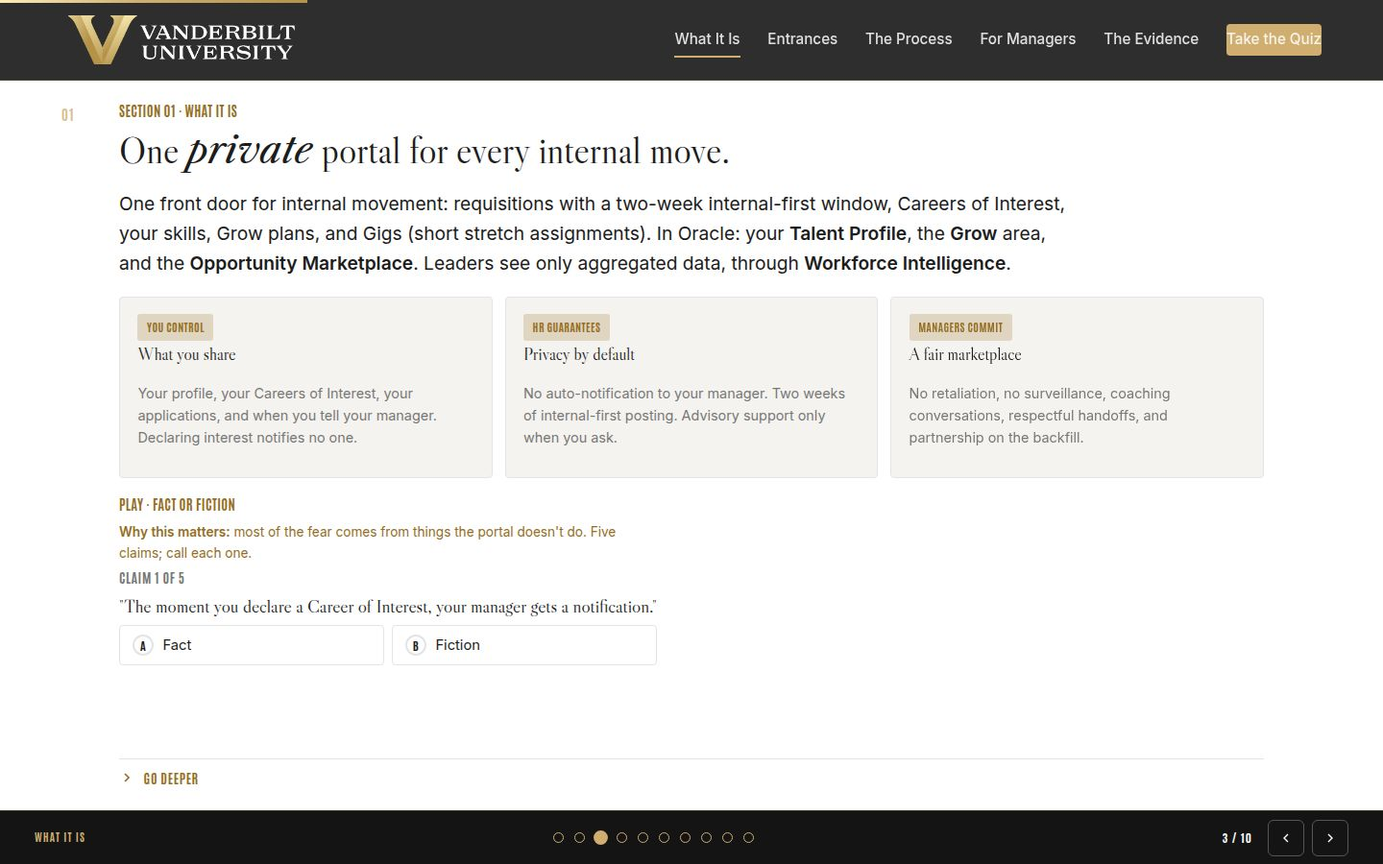
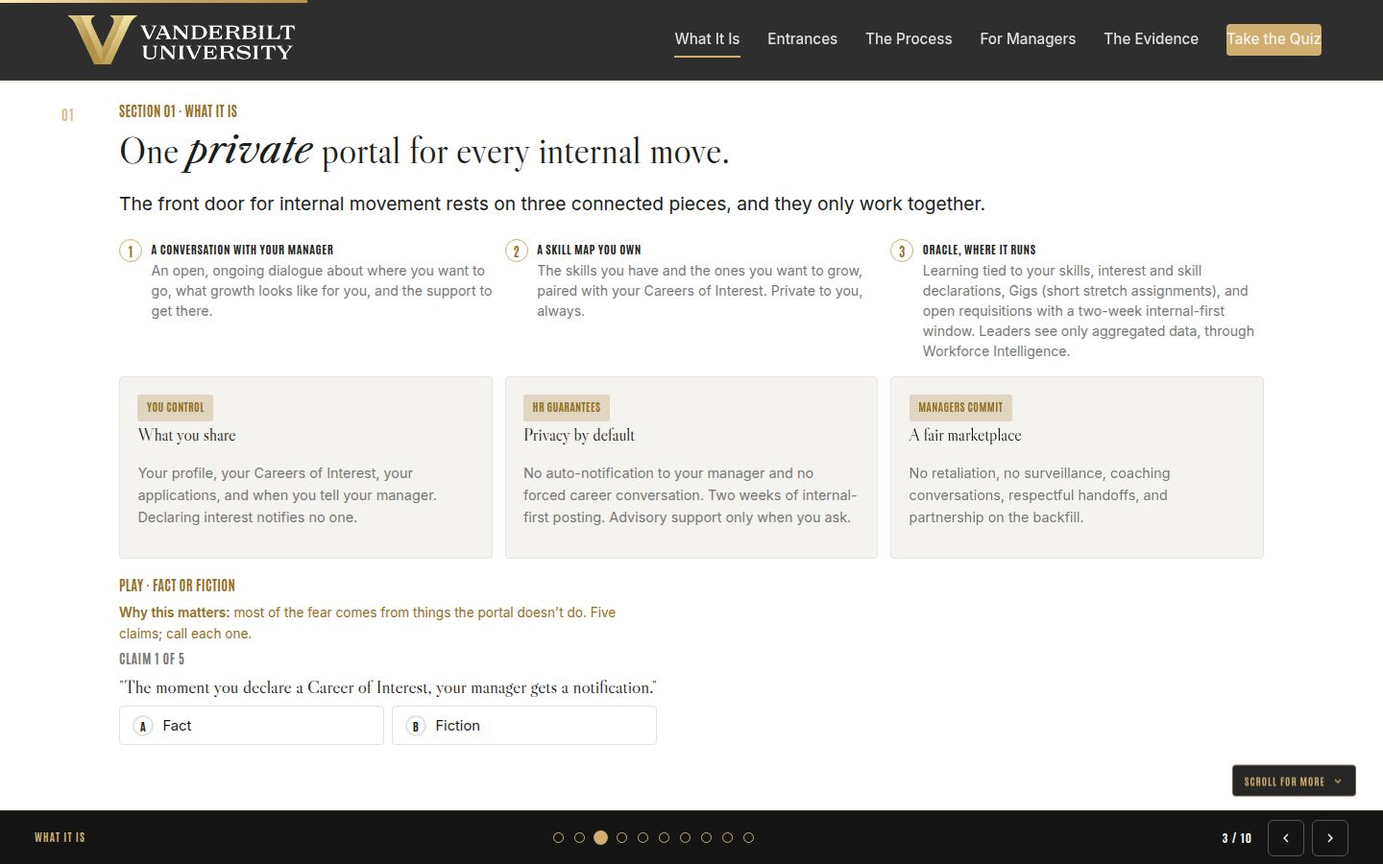
Align course to the canonical program description
Section 01 now opens with the three connected pieces (manager
conversation, a private skill map, Oracle as the operating layer).
Hero names upward or lateral growth within or across units and frames
mobility as a normal part of a Vanderbilt career. Privacy guarantee
adds no forced career conversations; Track 1 gains the Oracle Learning
step; Track 2 names recruiters. Runbook and CLAUDE.md facts synced.

Claude-Session: https://claude.ai/code/session_013tDBVkmLuRfSx6Efv12VME

Changed region(s): [[0.0625, 0.2178, 0.9062, 0.9333], [0.875, 0.8711, 1.0, 0.9333]]

diff --git a/facilitator/index.html b/facilitator/index.html
@@ -28,6 +28,12 @@
     padding: .3rem .65rem; border-radius: 999px; border: 1px solid rgba(207,174,112,.55);
     color: rgba(255,255,255,.85); }
   .skillpill--core { background: var(--vu-gold-flat); border-color: var(--vu-gold-flat); color: var(--vu-black); }
+  /* the three connected pieces (section 01) */
+  .pieces { list-style: none; margin: 1.1rem 0 0; padding: 0; counter-reset: piece; display: grid; gap: .7rem; }
+  @media (min-width: 900px) { .pieces { grid-template-columns: repeat(3, 1fr); gap: .8rem; } }
+  .pieces li { counter-increment: piece; position: relative; padding: .15rem 0 0 2.1rem; font-size: .88rem; line-height: 1.5; color: var(--vu-gray-dark); }
+  .pieces li::before { content: counter(piece); position: absolute; left: 0; top: .1rem; width: 1.5rem; height: 1.5rem; border-radius: 50%; border: 1px solid var(--vu-gold-flat); color: var(--vu-oak); font-family: var(--font-condensed); font-weight: 700; font-size: .85rem; display: grid; place-items: center; }
+  .pieces li b { display: block; font-family: var(--font-condensed); font-weight: 700; text-transform: uppercase; letter-spacing: .05em; font-size: .78rem; color: var(--vu-black); margin-bottom: .15rem; }
   /* entrance doors (expanding) */
   .doors { margin-top: 1.5rem; display: grid; gap: .6rem; }
   @media (min-width: 900px) { .doors { grid-template-columns: 1fr 1fr; gap: .6rem .9rem; align-items: start; } }
@@ -269,7 +275,7 @@ body.fac-hide .facshow { display: inline-flex; }
     <div class="wrap">
       <p class="eyebrow" data-reveal>The Transfer Portal · Vanderbilt · People, Culture and Belonging</p>
       <h1 class="h-hero" data-reveal>Stay at Vanderbilt.<br><em class="gold-text">Go somewhere new.</em></h1>
-      <p class="lead" data-reveal style="margin-top:1rem">One Oracle-powered place to explore roles, signal interest safely, pick up stretch work, and compete for your next chapter without leaving Vanderbilt. People who can move inside, stay. Here's how it works.</p>
+      <p class="lead" data-reveal style="margin-top:1rem">A clear, supported path to grow upward or laterally, inside your unit or across into another, without apprehension or penalty. Explore roles, signal interest safely, pick up stretch work, and compete for your next chapter. At Vanderbilt, moving is a normal part of a career, never a departure.</p>
       <div class="objectives" data-reveal>
         <p class="objectives__label">By the end of this session, you will be able to</p>
         <ol class="objectives__list">
@@ -292,7 +298,7 @@ body.fac-hide .facshow { display: inline-flex; }
         <a class="btn" href="#s-what">Begin the session</a>
       </div>
     </div>
-    <aside class="facnote" aria-label="Facilitator notes"><div class="facnote__head"><span>Facilitator script</span><span class="facnote__time">Full 1 min · Core skip</span><button class="facnote__hide" type="button" aria-label="Hide the facilitator script">Hide</button></div><p class="facnote__purpose">Set the contract in one breath.</p><div class="facnote__blk"><span class="facnote__tag t-say">Say</span><p class="facnote__script">&ldquo;Five things in fifteen minutes: what the portal is and what it guarantees, your entrance, the process, the manager conversation, and the numbers. It ends with a first move card you date.&rdquo;</p></div><div class="facnote__blk"><span class="facnote__tag t-do">Do</span><ol class="facnote__steps"><li>Paraphrase the objectives in one breath.</li><li>Name the anchors once: powered by Oracle, built by People, Culture and Belonging.</li></ol></div><p class="facnote__meta"><b>Validate:</b> None needed.</p><p class="facnote__meta"><b>Watch for:</b> Reading the list verbatim; paraphrase it.</p><div class="facnote__blk"><span class="facnote__tag t-tra">Transition</span><p class="facnote__script">&ldquo;First, what it actually is.&rdquo;</p></div><p class="facnote__meta facnote__core"><b>60-min core:</b> Core: skip; the deck carries it.</p></aside>
+    <aside class="facnote" aria-label="Facilitator notes"><div class="facnote__head"><span>Facilitator script</span><span class="facnote__time">Full 1 min · Core skip</span><button class="facnote__hide" type="button" aria-label="Hide the facilitator script">Hide</button></div><p class="facnote__purpose">Set the contract in one breath.</p><div class="facnote__blk"><span class="facnote__tag t-say">Say</span><p class="facnote__script">&ldquo;Five things in fifteen minutes: what the portal is and what it guarantees, your entrance, the process, the manager conversation, and the numbers. Growth here means upward or lateral, inside your unit or across into another, and moving is a normal part of a Vanderbilt career. It ends with a first move card you date.&rdquo;</p></div><div class="facnote__blk"><span class="facnote__tag t-do">Do</span><ol class="facnote__steps"><li>Paraphrase the objectives in one breath.</li><li>Name the anchors once: powered by Oracle, built by People, Culture and Belonging.</li></ol></div><p class="facnote__meta"><b>Validate:</b> None needed.</p><p class="facnote__meta"><b>Watch for:</b> Reading the list verbatim; paraphrase it.</p><div class="facnote__blk"><span class="facnote__tag t-tra">Transition</span><p class="facnote__script">&ldquo;First, what it actually is.&rdquo;</p></div><p class="facnote__meta facnote__core"><b>60-min core:</b> Core: skip; the deck carries it.</p></aside>
   </section>
 
   
@@ -302,7 +308,13 @@ body.fac-hide .facshow { display: inline-flex; }
     <div class="wrap">
       <p class="eyebrow" data-reveal>Section 01 · What It Is</p>
       <h2 class="h2" data-reveal>One <em>private</em> portal for every internal move.</h2>
-      <p class="lead" data-reveal>One front door for internal movement: requisitions with a two-week internal-first window, Careers of Interest, your skills, Grow plans, and Gigs (short stretch assignments). In Oracle: your <b>Talent Profile</b>, the <b>Grow</b> area, and the <b>Opportunity Marketplace</b>. Leaders see only aggregated data, through <b>Workforce Intelligence</b>.</p>
+      <p class="lead" data-reveal>The front door for internal movement rests on three connected pieces, and they only work together.</p>
+
+      <ol class="pieces" data-reveal>
+        <li><b>A conversation with your manager</b>An open, ongoing dialogue about where you want to go, what growth looks like for you, and the support to get there.</li>
+        <li><b>A skill map you own</b>The skills you have and the ones you want to grow, paired with your Careers of Interest. Private to you, always.</li>
+        <li><b>Oracle, where it runs</b>Learning tied to your skills, interest and skill declarations, Gigs (short stretch assignments), and open requisitions with a two-week internal-first window. Leaders see only aggregated data, through Workforce Intelligence.</li>
+      </ol>
 
       <div class="grid grid-3" style="margin-top:1rem;grid-template-columns:repeat(auto-fit,minmax(220px,1fr))">
         <div class="card" data-reveal>
@@ -313,7 +325,7 @@ body.fac-hide .facshow { display: inline-flex; }
         <div class="card" data-reveal>
           <span class="tag">HR guarantees</span>
           <h3>Privacy by default</h3>
-          <p class="muted">No auto-notification to your manager. Two weeks of internal-first posting. Advisory support only when you ask.</p>
+          <p class="muted">No auto-notification to your manager and no forced career conversation. Two weeks of internal-first posting. Advisory support only when you ask.</p>
         </div>
         <div class="card" data-reveal>
           <span class="tag">Managers commit</span>
@@ -350,7 +362,7 @@ body.fac-hide .facshow { display: inline-flex; }
         </div>
       </details>
     </div>
-    <aside class="facnote" aria-label="Facilitator notes"><div class="facnote__head"><span>Facilitator script</span><span class="facnote__time">Full 1 min · Core 1</span><button class="facnote__hide" type="button" aria-label="Hide the facilitator script">Hide</button></div><p class="facnote__purpose">Install the accurate model and dissolve the folklore.</p><div class="facnote__blk"><span class="facnote__tag t-say">Say</span><p class="facnote__script">&ldquo;One front door for internal movement, powered by Oracle: requisitions posted internally first for two weeks, Careers of Interest, your skills, Grow, and Gigs. Leaders see only aggregated data through Workforce Intelligence. The important part is what it is NOT, and that's a game.&rdquo;</p></div><div class="facnote__blk"><span class="facnote__tag t-do">Do</span><ol class="facnote__steps"><li>Guarantee cards in one breath each.</li><li>Run Fact or Fiction as a fast room vote, hands for A or B.</li></ol></div><p class="facnote__meta"><b>Validate:</b> 4+ of 5 on the trainer.</p><p class="facnote__meta"><b>Watch for:</b> Privacy skepticism; point at the mechanics (no notifications, aggregate-only) and move on.</p><div class="facnote__blk"><span class="facnote__tag t-tra">Transition</span><p class="facnote__script">&ldquo;Which door is yours? There are six.&rdquo;</p></div><p class="facnote__meta facnote__core"><b>60-min core:</b> Core: same minute; the trainer carries it.</p></aside>
+    <aside class="facnote" aria-label="Facilitator notes"><div class="facnote__head"><span>Facilitator script</span><span class="facnote__time">Full 1 min · Core 1</span><button class="facnote__hide" type="button" aria-label="Hide the facilitator script">Hide</button></div><p class="facnote__purpose">Install the accurate model and dissolve the folklore.</p><div class="facnote__blk"><span class="facnote__tag t-say">Say</span><p class="facnote__script">&ldquo;The portal rests on three connected pieces. One: an open, ongoing growth conversation with your manager. Two: a skill map you own, the skills you have and the ones you want to grow, private to you, always. Three: Oracle, where it all runs: learning, declarations, Gigs, and requisitions posted internally first for two weeks. Leaders see only aggregate through Workforce Intelligence. Now, five claims about what this thing does. Call fact or fiction.&rdquo;</p></div><div class="facnote__blk"><span class="facnote__tag t-do">Do</span><ol class="facnote__steps"><li>Walk the three pieces in one breath each; land that they only work together.</li><li>Guarantee cards in one breath each.</li><li>Run Fact or Fiction as a fast room vote, hands for A or B.</li></ol></div><p class="facnote__meta"><b>Validate:</b> 4+ of 5 on the trainer.</p><p class="facnote__meta"><b>Watch for:</b> Privacy skepticism; point at the mechanics (no notifications, aggregate-only) and move on.</p><div class="facnote__blk"><span class="facnote__tag t-tra">Transition</span><p class="facnote__script">&ldquo;Which door is yours? There are six.&rdquo;</p></div><p class="facnote__meta facnote__core"><b>60-min core:</b> Core: same minute; the trainer carries it.</p></aside>
   </section>
 
   
@@ -523,6 +535,7 @@ body.fac-hide .facshow { display: inline-flex; }
           <ol>
             <li><b>Build your profile.</b> In your <a href="https://ecsr.fa.us2.oraclecloud.com/fscmUI/faces/deeplink?objType=NFX_VIEW_MY_SKILLS_AND_QUAL_VB&action=NONE">Talent Profile</a> (Oracle lists it as Skills and Qualifications): Career Preferences plus both skills lists, honestly leveled in the <a href="https://ecsr.fa.us2.oraclecloud.com/fscmUI/redwood/profiles/skills/skillscenter?navigateBack=true">Skills Center</a>. Private to you.</li>
             <li><b>Set a Grow plan and flag Careers of Interest.</b> Both live in Grow: one to three goals, plus the roles you want suggestions about.</li>
+            <li><b>Take the learning.</b> Courses in Oracle Learning, tied to the skills you want to grow.</li>
             <li><b>Explore.</b> Browse the <a href="https://ecsr.fa.us2.oraclecloud.com/fscmUI/redwood/internalmobility/opportunitymarketplace/search">Opportunity Marketplace</a> with the Opportunity filter set to Career Roles: you are browsing careers, with or without an open requisition. Save what interests you.</li>
             <li><b>Take a Gig, optionally.</b> Defined scope, defined duration, real development. No transfer guarantee.</li>
             <li><b>Ask for advisory support, optionally.</b> Confidential, on your initiative; nothing happens without your consent.</li>
@@ -532,7 +545,7 @@ body.fac-hide .facshow { display: inline-flex; }
           <span class="tag">Track 2 · Move, event-driven</span>
           <ol>
             <li><b>A requisition opens,</b> internal-first for two weeks.</li>
-            <li><b>You apply.</b> The hiring manager sees what you choose to share; performance data follows policy.</li>
+            <li><b>You apply.</b> Recruiters run one consistent process; the hiring manager sees what you choose to share; performance data follows policy.</li>
             <li><b>You interview,</b> in the same process every candidate gets.</li>
             <li><b>Transition is coordinated.</b> HR and both managers plan the handoff, typically two to four weeks.</li>
             <li><b>You onboard fast;</b> your institutional knowledge comes with you.</li>

diff --git a/index.html b/index.html
@@ -28,6 +28,12 @@
     padding: .3rem .65rem; border-radius: 999px; border: 1px solid rgba(207,174,112,.55);
     color: rgba(255,255,255,.85); }
   .skillpill--core { background: var(--vu-gold-flat); border-color: var(--vu-gold-flat); color: var(--vu-black); }
+  /* the three connected pieces (section 01) */
+  .pieces { list-style: none; margin: 1.1rem 0 0; padding: 0; counter-reset: piece; display: grid; gap: .7rem; }
+  @media (min-width: 900px) { .pieces { grid-template-columns: repeat(3, 1fr); gap: .8rem; } }
+  .pieces li { counter-increment: piece; position: relative; padding: .15rem 0 0 2.1rem; font-size: .88rem; line-height: 1.5; color: var(--vu-gray-dark); }
+  .pieces li::before { content: counter(piece); position: absolute; left: 0; top: .1rem; width: 1.5rem; height: 1.5rem; border-radius: 50%; border: 1px solid var(--vu-gold-flat); color: var(--vu-oak); font-family: var(--font-condensed); font-weight: 700; font-size: .85rem; display: grid; place-items: center; }
+  .pieces li b { display: block; font-family: var(--font-condensed); font-weight: 700; text-transform: uppercase; letter-spacing: .05em; font-size: .78rem; color: var(--vu-black); margin-bottom: .15rem; }
   /* entrance doors (expanding) */
   .doors { margin-top: 1.5rem; display: grid; gap: .6rem; }
   @media (min-width: 900px) { .doors { grid-template-columns: 1fr 1fr; gap: .6rem .9rem; align-items: start; } }
@@ -172,7 +178,7 @@
     <div class="wrap">
       <p class="eyebrow" data-reveal>The Transfer Portal · Vanderbilt · People, Culture and Belonging</p>
       <h1 class="h-hero" data-reveal>Stay at Vanderbilt.<br><em class="gold-text">Go somewhere new.</em></h1>
-      <p class="lead" data-reveal style="margin-top:1rem">One Oracle-powered place to explore roles, signal interest safely, pick up stretch work, and compete for your next chapter without leaving Vanderbilt. People who can move inside, stay. Here's how it works.</p>
+      <p class="lead" data-reveal style="margin-top:1rem">A clear, supported path to grow upward or laterally, inside your unit or across into another, without apprehension or penalty. Explore roles, signal interest safely, pick up stretch work, and compete for your next chapter. At Vanderbilt, moving is a normal part of a career, never a departure.</p>
       <div class="objectives" data-reveal>
         <p class="objectives__label">By the end of this session, you will be able to</p>
         <ol class="objectives__list">
@@ -204,7 +210,13 @@
     <div class="wrap">
       <p class="eyebrow" data-reveal>Section 01 · What It Is</p>
       <h2 class="h2" data-reveal>One <em>private</em> portal for every internal move.</h2>
-      <p class="lead" data-reveal>One front door for internal movement: requisitions with a two-week internal-first window, Careers of Interest, your skills, Grow plans, and Gigs (short stretch assignments). In Oracle: your <b>Talent Profile</b>, the <b>Grow</b> area, and the <b>Opportunity Marketplace</b>. Leaders see only aggregated data, through <b>Workforce Intelligence</b>.</p>
+      <p class="lead" data-reveal>The front door for internal movement rests on three connected pieces, and they only work together.</p>
+
+      <ol class="pieces" data-reveal>
+        <li><b>A conversation with your manager</b>An open, ongoing dialogue about where you want to go, what growth looks like for you, and the support to get there.</li>
+        <li><b>A skill map you own</b>The skills you have and the ones you want to grow, paired with your Careers of Interest. Private to you, always.</li>
+        <li><b>Oracle, where it runs</b>Learning tied to your skills, interest and skill declarations, Gigs (short stretch assignments), and open requisitions with a two-week internal-first window. Leaders see only aggregated data, through Workforce Intelligence.</li>
+      </ol>
 
       <div class="grid grid-3" style="margin-top:1rem;grid-template-columns:repeat(auto-fit,minmax(220px,1fr))">
         <div class="card" data-reveal>
@@ -215,7 +227,7 @@
         <div class="card" data-reveal>
           <span class="tag">HR guarantees</span>
           <h3>Privacy by default</h3>
-          <p class="muted">No auto-notification to your manager. Two weeks of internal-first posting. Advisory support only when you ask.</p>
+          <p class="muted">No auto-notification to your manager and no forced career conversation. Two weeks of internal-first posting. Advisory support only when you ask.</p>
         </div>
         <div class="card" data-reveal>
           <span class="tag">Managers commit</span>
@@ -423,6 +435,7 @@
           <ol>
             <li><b>Build your profile.</b> In your <a href="https://ecsr.fa.us2.oraclecloud.com/fscmUI/faces/deeplink?objType=NFX_VIEW_MY_SKILLS_AND_QUAL_VB&action=NONE">Talent Profile</a> (Oracle lists it as Skills and Qualifications): Career Preferences plus both skills lists, honestly leveled in the <a href="https://ecsr.fa.us2.oraclecloud.com/fscmUI/redwood/profiles/skills/skillscenter?navigateBack=true">Skills Center</a>. Private to you.</li>
             <li><b>Set a Grow plan and flag Careers of Interest.</b> Both live in Grow: one to three goals, plus the roles you want suggestions about.</li>
+            <li><b>Take the learning.</b> Courses in Oracle Learning, tied to the skills you want to grow.</li>
             <li><b>Explore.</b> Browse the <a href="https://ecsr.fa.us2.oraclecloud.com/fscmUI/redwood/internalmobility/opportunitymarketplace/search">Opportunity Marketplace</a> with the Opportunity filter set to Career Roles: you are browsing careers, with or without an open requisition. Save what interests you.</li>
             <li><b>Take a Gig, optionally.</b> Defined scope, defined duration, real development. No transfer guarantee.</li>
             <li><b>Ask for advisory support, optionally.</b> Confidential, on your initiative; nothing happens without your consent.</li>
@@ -432,7 +445,7 @@
           <span class="tag">Track 2 · Move, event-driven</span>
           <ol>
             <li><b>A requisition opens,</b> internal-first for two weeks.</li>
-            <li><b>You apply.</b> The hiring manager sees what you choose to share; performance data follows policy.</li>
+            <li><b>You apply.</b> Recruiters run one consistent process; the hiring manager sees what you choose to share; performance data follows policy.</li>
             <li><b>You interview,</b> in the same process every candidate gets.</li>
             <li><b>Transition is coordinated.</b> HR and both managers plan the handoff, typically two to four weeks.</li>
             <li><b>You onboard fast;</b> your institutional knowledge comes with you.</li>

diff --git a/web/index.html b/web/index.html
@@ -28,6 +28,12 @@
     padding: .3rem .65rem; border-radius: 999px; border: 1px solid rgba(207,174,112,.55);
     color: rgba(255,255,255,.85); }
   .skillpill--core { background: var(--vu-gold-flat); border-color: var(--vu-gold-flat); color: var(--vu-black); }
+  /* the three connected pieces (section 01) */
+  .pieces { list-style: none; margin: 1.1rem 0 0; padding: 0; counter-reset: piece; display: grid; gap: .7rem; }
+  @media (min-width: 900px) { .pieces { grid-template-columns: repeat(3, 1fr); gap: .8rem; } }
+  .pieces li { counter-increment: piece; position: relative; padding: .15rem 0 0 2.1rem; font-size: .88rem; line-height: 1.5; color: var(--vu-gray-dark); }
+  .pieces li::before { content: counter(piece); position: absolute; left: 0; top: .1rem; width: 1.5rem; height: 1.5rem; border-radius: 50%; border: 1px solid var(--vu-gold-flat); color: var(--vu-oak); font-family: var(--font-condensed); font-weight: 700; font-size: .85rem; display: grid; place-items: center; }
+  .pieces li b { display: block; font-family: var(--font-condensed); font-weight: 700; text-transform: uppercase; letter-spacing: .05em; font-size: .78rem; color: var(--vu-black); margin-bottom: .15rem; }
   /* entrance doors (expanding) */
   .doors { margin-top: 1.5rem; display: grid; gap: .6rem; }
   @media (min-width: 900px) { .doors { grid-template-columns: 1fr 1fr; gap: .6rem .9rem; align-items: start; } }
@@ -152,7 +158,7 @@
     <div class="wrap">
       <p class="eyebrow" data-reveal>The Transfer Portal · Vanderbilt · People, Culture and Belonging</p>
       <h1 class="h-hero" data-reveal>Stay at Vanderbilt.<br><em class="gold-text">Go somewhere new.</em></h1>
-      <p class="lead" data-reveal style="margin-top:1rem">One Oracle-powered place to explore roles, signal interest safely, pick up stretch work, and compete for your next chapter without leaving Vanderbilt. People who can move inside, stay. Here's how it works.</p>
+      <p class="lead" data-reveal style="margin-top:1rem">A clear, supported path to grow upward or laterally, inside your unit or across into another, without apprehension or penalty. Explore roles, signal interest safely, pick up stretch work, and compete for your next chapter. At Vanderbilt, moving is a normal part of a career, never a departure.</p>
       <div class="objectives" data-reveal>
         <p class="objectives__label">By the end of this session, you will be able to</p>
         <ol class="objectives__list">
@@ -184,7 +190,13 @@
     <div class="wrap">
       <p class="eyebrow" data-reveal>Section 01 · What It Is</p>
       <h2 class="h2" data-reveal>One <em>private</em> portal for every internal move.</h2>
-      <p class="lead" data-reveal>One front door for internal movement: requisitions with a two-week internal-first window, Careers of Interest, your skills, Grow plans, and Gigs (short stretch assignments). In Oracle: your <b>Talent Profile</b>, the <b>Grow</b> area, and the <b>Opportunity Marketplace</b>. Leaders see only aggregated data, through <b>Workforce Intelligence</b>.</p>
+      <p class="lead" data-reveal>The front door for internal movement rests on three connected pieces, and they only work together.</p>
+
+      <ol class="pieces" data-reveal>
+        <li><b>A conversation with your manager</b>An open, ongoing dialogue about where you want to go, what growth looks like for you, and the support to get there.</li>
+        <li><b>A skill map you own</b>The skills you have and the ones you want to grow, paired with your Careers of Interest. Private to you, always.</li>
+        <li><b>Oracle, where it runs</b>Learning tied to your skills, interest and skill declarations, Gigs (short stretch assignments), and open requisitions with a two-week internal-first window. Leaders see only aggregated data, through Workforce Intelligence.</li>
+      </ol>
 
       <div class="grid grid-3" style="margin-top:1rem;grid-template-columns:repeat(auto-fit,minmax(220px,1fr))">
         <div class="card" data-reveal>
@@ -195,7 +207,7 @@
         <div class="card" data-reveal>
           <span class="tag">HR guarantees</span>
           <h3>Privacy by default</h3>
-          <p class="muted">No auto-notification to your manager. Two weeks of internal-first posting. Advisory support only when you ask.</p>
+          <p class="muted">No auto-notification to your manager and no forced career conversation. Two weeks of internal-first posting. Advisory support only when you ask.</p>
         </div>
         <div class="card" data-reveal>
           <span class="tag">Managers commit</span>
@@ -391,6 +403,7 @@
           <ol>
             <li><b>Build your profile.</b> In your <a href="https://ecsr.fa.us2.oraclecloud.com/fscmUI/faces/deeplink?objType=NFX_VIEW_MY_SKILLS_AND_QUAL_VB&action=NONE">Talent Profile</a> (Oracle lists it as Skills and Qualifications): Career Preferences plus both skills lists, honestly leveled in the <a href="https://ecsr.fa.us2.oraclecloud.com/fscmUI/redwood/profiles/skills/skillscenter?navigateBack=true">Skills Center</a>. Private to you.</li>
             <li><b>Set a Grow plan and flag Careers of Interest.</b> Both live in Grow: one to three goals, plus the roles you want suggestions about.</li>
+            <li><b>Take the learning.</b> Courses in Oracle Learning, tied to the skills you want to grow.</li>
             <li><b>Explore.</b> Browse the <a href="https://ecsr.fa.us2.oraclecloud.com/fscmUI/redwood/internalmobility/opportunitymarketplace/search">Opportunity Marketplace</a> with the Opportunity filter set to Career Roles: you are browsing careers, with or without an open requisition. Save what interests you.</li>
             <li><b>Take a Gig, optionally.</b> Defined scope, defined duration, real development. No transfer guarantee.</li>
             <li><b>Ask for advisory support, optionally.</b> Confidential, on your initiative; nothing happens without your consent.</li>
@@ -400,7 +413,7 @@
           <span class="tag">Track 2 · Move, event-driven</span>
           <ol>
             <li><b>A requisition opens,</b> internal-first for two weeks.</li>
-            <li><b>You apply.</b> The hiring manager sees what you choose to share; performance data follows policy.</li>
+            <li><b>You apply.</b> Recruiters run one consistent process; the hiring manager sees what you choose to share; performance data follows policy.</li>
             <li><b>You interview,</b> in the same process every candidate gets.</li>
             <li><b>Transition is coordinated.</b> HR and both managers plan the handoff, typically two to four weeks.</li>
             <li><b>You onboard fast;</b> your institutional knowledge comes with you.</li>

diff --git a/facilitator/guide.html b/facilitator/guide.html
@@ -108,7 +108,7 @@
     <div class="sec__notes">
     <h2>Objectives <span class="mins">Full 1 min · Core skip</span></h2>
     <p class="purpose">Set the contract in one breath.</p>
-    <p class="tagline say">Say</p><p class="script">&ldquo;Five things in fifteen minutes: what the portal is and what it guarantees, your entrance, the process, the manager conversation, and the numbers. It ends with a first move card you date.&rdquo;</p>
+    <p class="tagline say">Say</p><p class="script">&ldquo;Five things in fifteen minutes: what the portal is and what it guarantees, your entrance, the process, the manager conversation, and the numbers. Growth here means upward or lateral, inside your unit or across into another, and moving is a normal part of a Vanderbilt career. It ends with a first move card you date.&rdquo;</p>
     <p class="tagline">Do</p><ol><li>Paraphrase the objectives in one breath.</li><li>Name the anchors once: powered by Oracle, built by People, Culture and Belonging.</li></ol>
     
     
@@ -123,8 +123,8 @@
     <div class="sec__notes">
     <h2>01 · What it is <span class="mins">Full 1 min · Core 1</span></h2>
     <p class="purpose">Install the accurate model and dissolve the folklore.</p>
-    <p class="tagline say">Say</p><p class="script">&ldquo;One front door for internal movement, powered by Oracle: requisitions posted internally first for two weeks, Careers of Interest, your skills, Grow, and Gigs. Leaders see only aggregated data through Workforce Intelligence. The important part is what it is NOT, and that's a game.&rdquo;</p>
-    <p class="tagline">Do</p><ol><li>Guarantee cards in one breath each.</li><li>Run Fact or Fiction as a fast room vote, hands for A or B.</li></ol>
+    <p class="tagline say">Say</p><p class="script">&ldquo;The portal rests on three connected pieces. One: an open, ongoing growth conversation with your manager. Two: a skill map you own, the skills you have and the ones you want to grow, private to you, always. Three: Oracle, where it all runs: learning, declarations, Gigs, and requisitions posted internally first for two weeks. Leaders see only aggregate through Workforce Intelligence. Now, five claims about what this thing does. Call fact or fiction.&rdquo;</p>
+    <p class="tagline">Do</p><ol><li>Walk the three pieces in one breath each; land that they only work together.</li><li>Guarantee cards in one breath each.</li><li>Run Fact or Fiction as a fast room vote, hands for A or B.</li></ol>
     
     
     <p class="mini"><b>Validate:</b> 4+ of 5 on the trainer.</p>

diff --git a/CLAUDE.md b/CLAUDE.md
@@ -17,11 +17,17 @@ catalog at me5231979/Course_Library. Same engine, same standing principles.
    interest declarations, and the course itself mirrors it: the capstone and
    all typed input stay on-screen, saved nowhere, and learner-visible copy
    SAYS so. Never add telemetry, storage, or sharing.
-3. **Never contradict the program facts:** two-week internal-first window;
-   Gigs are development with no transfer guarantee; advisory activates only
-   on request; no auto-notification to managers; internal application is
-   competitive, never entitled; retaliation and surveillance are named
-   violations.
+3. **Never contradict the program facts:** the program rests on three
+   connected pieces (an ongoing growth conversation with your manager,
+   recommended never required; a private skill map the staff member owns;
+   Oracle as the operating layer for learning, declarations, Gigs, and
+   requisitions); growth means upward or lateral, within or across units,
+   and mobility is a normal part of a Vanderbilt career; two-week
+   internal-first window; Gigs are development with no transfer guarantee;
+   advisory activates only on request; no auto-notification to managers
+   and no forced career conversations; recruiters support competitive
+   application; internal application is competitive, never entitled;
+   retaliation and surveillance are named violations.
 4. **Facilitator edition is generated, never hand-edited** — run
    `python3 tools/build-web.py` and `python3 tools/build-facilitator.py`
    after ANY change to index.html or notes.json. The QR encodes the
